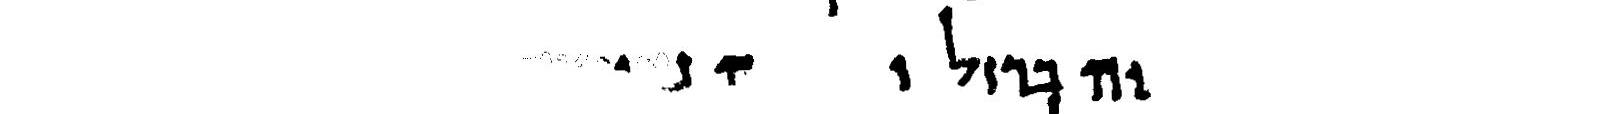
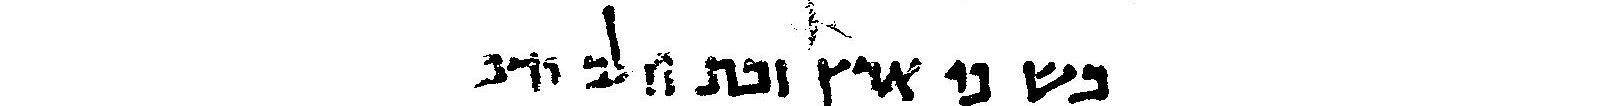
we can segment lines now

Changed region(s): [[0.2771, 0.0566, 0.7081, 1.0], [0.4926, 0.0, 0.5234, 0.3679], [0.5542, 0.0566, 0.585, 0.3679]]

diff --git a/Preprocess/preprocess.py b/Preprocess/preprocess.py
@@ -54,7 +54,7 @@ def binarise_otsu(image):
 
 
 def get_optimum_rotation(image, output_directory, lookahead=30, min_degree=-10, max_degree=10):
-    optimum_rot_degree = 0
+    optimum_rot_degree = -90
     optimum_score = 0
     optimum_rot_image = image
     optimum_rot_line_peaks = []
@@ -88,9 +88,9 @@ def get_optimum_rotation(image, output_directory, lookahead=30, min_degree=-10, 
             score = line_peaks[0][peak][1] - line_peaks[1][peak][1]
         score = score / number_peaks
 
-        # print ('Degree=' + str(degree) + '; Score=' + str(score))
+        print ('Degree=' + str(degree) + '; Score=' + str(score))
 
-        if score > optimum_score:
+        if score >= optimum_score and abs(degree) <= abs(optimum_rot_degree):
             optimum_score = score
             optimum_rot_degree = degree
             optimum_rot_image = rotated_image
@@ -295,7 +295,8 @@ def preprocess(input_image_name, output_directory):
 # Find optimum rotation
     rotation_directory = output_directory + '/rotated'
     ensure_directory(rotation_directory)
-    rot_image, rot_line_peaks, rot_degree = get_optimum_rotation(masked_sauvola, rotation_directory)
+    lookahead = 20
+    rot_image, rot_line_peaks, rot_degree = get_optimum_rotation(masked_sauvola, rotation_directory, lookahead = lookahead)
 
 
 # # Optionally, trim image from blank lines to have the main component only.

diff --git a/main.py b/main.py
@@ -5,11 +5,8 @@ from Segment.segment import *
 
 
 # First, preprocess images.
-input_image = "Input/P168-Fg016-R-C01-R01-fused.jpg"
+input_image_name = "Input/P168-Fg016-R-C01-R01-fused.jpg"
 output_directory = "Output"
-preprocess(input_image,output_directory)
 
-# Second, segment images.
-input_image = "Output/optimumRotation.jpg"
-output_directory = "Output/segmented"
-segment(input_image,output_directory)
+rot_image, rot_line_peaks, rot_degree = preprocess(input_image_name, output_directory)
+segment(rot_image, rot_line_peaks, output_directory)

diff --git a/mainPreprocess.py b/mainPreprocess.py
@@ -15,6 +15,8 @@ print ("Optimum rotation=" + str(rot_degree))
 print ("Optimum line peaks=\n" + str(rot_line_peaks))
 write_image(rot_image, output_directory+'/optimumRotation.jpg')
 write_line_peaks(rot_line_peaks, output_directory+'/line_peaks')
+
+write_image(rot_image, output_directory_for_segmentation+'/image.jpg')
 write_line_peaks(rot_line_peaks, output_directory_for_segmentation+'/line_peaks')
 
 print ("Main Preprocessing successful")
